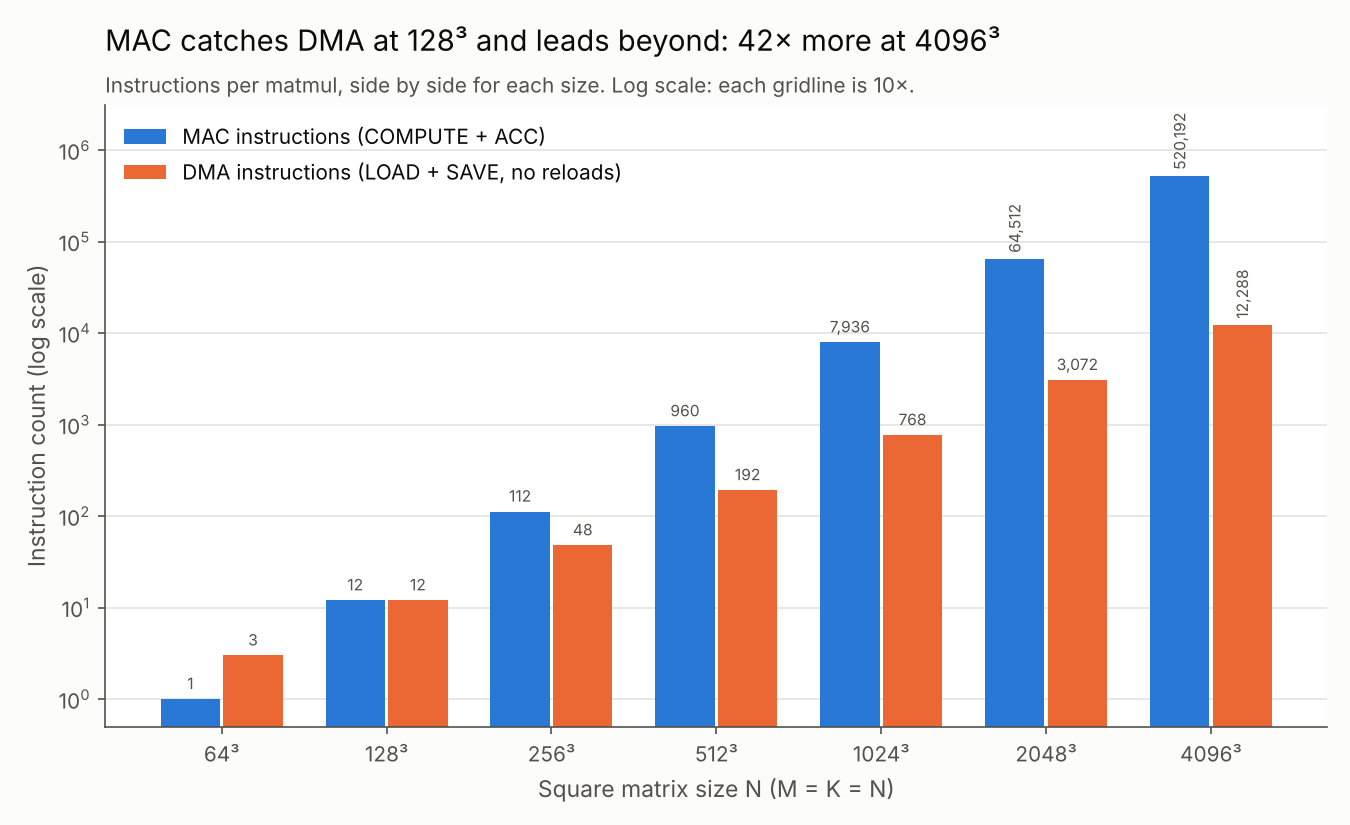
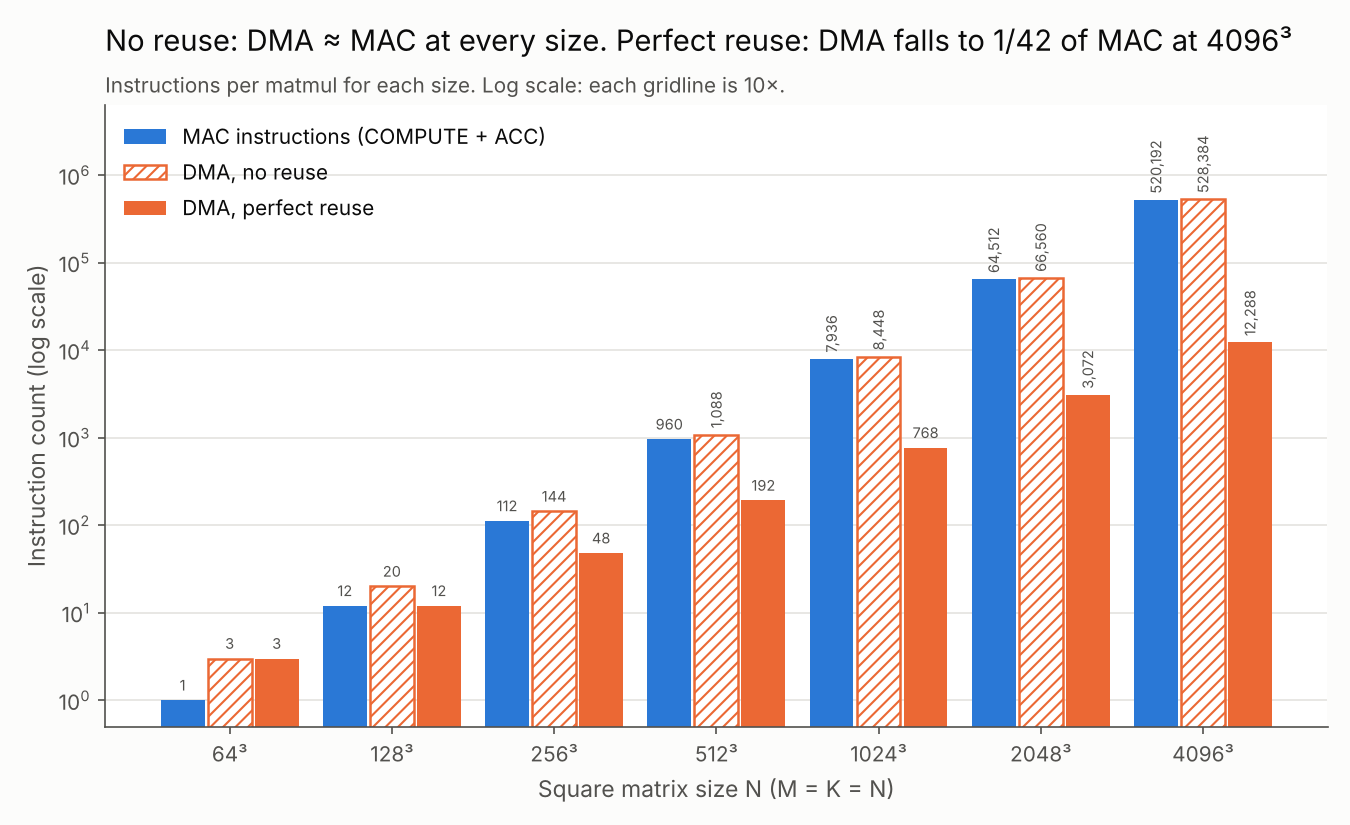
Mathematical_foundation: add no-reuse DMA scenario to the graphs
DMA counts now come in two scenarios: perfect reuse (each input tile loaded
once) and no reuse (every COMPUTE loads its own A and B, 2mnk LOADs). The
combined line and bar graphs show MAC against both.

Claude-Session: https://claude.ai/code/session_01DGvLJ7ZTRfxZ8fmwkevm71

diff --git a/Mathematical_foundation/experiments/01_instruction_counts/run.py b/Mathematical_foundation/experiments/01_instruction_counts/run.py
@@ -65,8 +65,10 @@ def plot_mac(rows, sizes, out: Path) -> None:
 def plot_dma(rows, sizes, mems, out: Path) -> None:
     fig, ax = new_figure()
     xs = [r["N"] for r in rows]
+    ax.plot(xs, [r["DMA_no_reuse"] for r in rows], color=BLUE, linewidth=2.2, linestyle=":", marker="o",
+            markersize=4, label="Total, no reuse (every COMPUTE reloads its A and B)")
     ax.plot(xs, [r["DMA_total"] for r in rows], color=BLUE, linewidth=2.6, marker="o", markersize=4,
-            label="Total, no reloads (LOAD + SAVE)")
+            label="Total, perfect reuse (LOAD + SAVE, no reloads)")
     ax.plot(xs, [r["LOAD"] for r in rows], color=ORANGE, linewidth=2.0, marker="o", markersize=4,
             label="LOAD, compulsory")
     ax.plot(xs, [r["SAVE"] for r in rows], color=AQUA, linewidth=2.0, marker="o", markersize=4, label="SAVE")
@@ -74,6 +76,7 @@ def plot_dma(rows, sizes, mems, out: Path) -> None:
         ax.plot(xs, [r[f"DMA_total_S{S}"] for r in rows], color=GREYS[i % len(GREYS)], linewidth=1.8,
                 linestyle="--", label=f"Total with {S} tiles of local memory (reloads included)")
     last = rows[-1]
+    label_end(ax, last["N"], last["DMA_no_reuse"], f"No reuse {last['DMA_no_reuse']:,}", BLUE, 8)
     label_end(ax, last["N"], last["DMA_total"], f"Total {last['DMA_total']:,}", BLUE, 6)
     label_end(ax, last["N"], last["LOAD"], f"LOAD {last['LOAD']:,}", ORANGE, -2)
     label_end(ax, last["N"], last["SAVE"], f"SAVE {last['SAVE']:,}", AQUA, -12)
@@ -84,7 +87,7 @@ def plot_dma(rows, sizes, mems, out: Path) -> None:
     ax.set_yscale("log")
     log2_size_axis(ax, sizes)
     frame(ax, "DMA instructions grow as N² when everything fits, faster when it doesn't",
-          "LOAD + SAVE per matmul. Solid: each tile moved once. Dashed: ideal tiling with limited local memory.",
+          "LOAD + SAVE per matmul. Solid: perfect reuse. Dotted: no reuse. Dashed grey: ideal tiling with S tiles of memory.",
           XLABEL, YLABEL)
     ax.legend(frameon=False, loc="upper left", fontsize=9, labelcolor=INK)
     save(fig, out)
@@ -95,23 +98,22 @@ def plot_combined_line(rows, sizes, out: Path) -> None:
     xs = [r["N"] for r in rows]
     ax.plot(xs, [r["MAC_total"] for r in rows], color=BLUE, linewidth=2.6, marker="o", markersize=5,
             label="MAC instructions (COMPUTE + ACC)")
+    ax.plot(xs, [r["DMA_no_reuse"] for r in rows], color=ORANGE, linewidth=2.2, linestyle="--", marker="o",
+            markersize=4, label="DMA, no reuse (every COMPUTE reloads its A and B)")
     ax.plot(xs, [r["DMA_total"] for r in rows], color=ORANGE, linewidth=2.6, marker="o", markersize=5,
-            label="DMA instructions (LOAD + SAVE, no reloads)")
+            label="DMA, perfect reuse (each tile loaded once)")
     last = rows[-1]
-    label_end(ax, last["N"], last["MAC_total"], f"MAC {last['MAC_total']:,}", BLUE)
-    label_end(ax, last["N"], last["DMA_total"], f"DMA {last['DMA_total']:,}", ORANGE)
-    for r in rows:  # first size where MAC count reaches DMA count
-        if r["MAC_total"] >= r["DMA_total"]:
-            text = (f"Equal at {r['N']}³ ({r['MAC_total']:,} each)" if r["MAC_total"] == r["DMA_total"]
-                    else f"MAC overtakes DMA at {r['N']}³")
-            ax.annotate(text, (r["N"], r["MAC_total"]), xytext=(30, -45), textcoords="offset points",
-                        color=INK2, fontsize=10, ha="left", arrowprops=dict(arrowstyle="-", color=INK2, lw=0.8))
-            break
+    label_end(ax, last["N"], last["DMA_no_reuse"], f"DMA no reuse {last['DMA_no_reuse']:,}", ORANGE, 9)
+    label_end(ax, last["N"], last["MAC_total"], f"MAC {last['MAC_total']:,}", BLUE, -9)
+    label_end(ax, last["N"], last["DMA_total"], f"DMA perfect reuse {last['DMA_total']:,}", ORANGE)
     ax.set_yscale("log")
     log2_size_axis(ax, sizes)
-    frame(ax, f"MAC work outgrows DMA work: {last['MAC_total'] / last['DMA_total']:.0f}× more at {last['N']}³",
-          "Instructions per matmul. MAC grows as N³, DMA as N², so the ratio doubles with every doubling of N.",
+    ax.set_xlim(sizes[0] / 1.3, sizes[-1] * 4.2)
+    frame(ax, f"Reuse is the whole game: without it DMA matches MAC count; with it DMA is {last['MAC_total'] / last['DMA_total']:.0f}\u00d7 lower",
+          "Instructions per matmul. Shaded band: what local memory can buy, from no reuse (dashed) to perfect reuse (solid).",
           XLABEL, YLABEL)
+    ax.fill_between(xs, [r["DMA_total"] for r in rows], [r["DMA_no_reuse"] for r in rows], color=ORANGE, alpha=0.08,
+                    linewidth=0)
     ax.legend(frameon=False, loc="upper left", fontsize=10, labelcolor=INK)
     save(fig, out)
 
@@ -119,25 +121,23 @@ def plot_combined_line(rows, sizes, out: Path) -> None:
 def plot_combined_bar(rows, sizes, out: Path) -> None:
     fig, ax = new_figure()
     idx = list(range(len(rows)))
-    w = 0.36
-    mac = [r["MAC_total"] for r in rows]
-    dma = [r["DMA_total"] for r in rows]
-    b1 = ax.bar([i - w / 2 - 0.01 for i in idx], mac, width=w, color=BLUE, label="MAC instructions (COMPUTE + ACC)")
-    b2 = ax.bar([i + w / 2 + 0.01 for i in idx], dma, width=w, color=ORANGE,
-                label="DMA instructions (LOAD + SAVE, no reloads)")
-    ax.set_yscale("log")
-    ax.set_ylim(0.5, max(mac) * 6)
-    for bars, vals in ((b1, mac), (b2, dma)):
+    w = 0.27
+    series = (("MAC_total", "MAC instructions (COMPUTE + ACC)", dict(color=BLUE)),
+              ("DMA_no_reuse", "DMA, no reuse", dict(color="white", edgecolor=ORANGE, hatch="////", linewidth=1.2)),
+              ("DMA_total", "DMA, perfect reuse", dict(color=ORANGE)))
+    for j, (key, name, kw) in enumerate(series):
+        vals = [r[key] for r in rows]
+        bars = ax.bar([i + (j - 1) * (w + 0.02) for i in idx], vals, width=w, label=name, **kw)
         for rect, v in zip(bars, vals):
             ax.annotate(f"{v:,}", (rect.get_x() + rect.get_width() / 2, v), xytext=(0, 3), textcoords="offset points",
-                        ha="center", va="bottom", fontsize=7.5, color=INK2, rotation=90 if v >= 10000 else 0)
+                        ha="center", va="bottom", fontsize=7, color=INK2, rotation=90 if v >= 1000 else 0)
+    ax.set_yscale("log")
+    ax.set_ylim(0.5, max(r["DMA_no_reuse"] for r in rows) * 12)
     ax.set_xticks(idx)
-    ax.set_xticklabels([f"{r['N']}³" for r in rows])
+    ax.set_xticklabels([f"{r['N']}\u00b3" for r in rows])
     last = rows[-1]
-    tie = next((r["N"] for r in rows if r["MAC_total"] >= r["DMA_total"]), None)
-    frame(ax, (f"MAC catches DMA at {tie}³ and leads beyond: " if tie else "")
-          + f"{last['MAC_total'] / last['DMA_total']:.0f}× more at {last['N']}³",
-          "Instructions per matmul, side by side for each size. Log scale: each gridline is 10×.",
+    frame(ax, f"No reuse: DMA \u2248 MAC at every size. Perfect reuse: DMA falls to 1/{last['MAC_total'] / last['DMA_total']:.0f} of MAC at {last['N']}\u00b3",
+          "Instructions per matmul for each size. Log scale: each gridline is 10\u00d7.",
           XLABEL, YLABEL)
     ax.legend(frameon=False, loc="upper left", fontsize=10, labelcolor=INK)
     save(fig, out)
@@ -161,7 +161,7 @@ def main() -> None:
     plot_dma(rows, sizes, mems, a.out / "dma_instructions.png")
     plot_combined_line(rows, sizes, a.out / "mac_vs_dma_line.png")
     plot_combined_bar(rows, sizes, a.out / "mac_vs_dma_bar.png")
-    hdr = ["N", "COMPUTE", "ACC", "MAC_total", "LOAD", "SAVE", "DMA_total"] + [f"DMA_total_S{S}" for S in mems]
+    hdr = ["N", "COMPUTE", "ACC", "MAC_total", "LOAD", "SAVE", "DMA_total", "DMA_no_reuse"] + [f"DMA_total_S{S}" for S in mems]
     print("  ".join(f"{h:>14}" for h in hdr))
     for r in rows:
         print("  ".join(f"{r[h]:>14,}" for h in hdr))

diff --git a/Mathematical_foundation/foundation/counts.py b/Mathematical_foundation/foundation/counts.py
@@ -5,6 +5,7 @@ With m, k, n = ceil(M/64), ceil(K/64), ceil(N/64) tiles:
     matrix units (MAC)                 DMA units
       COMPUTE = m*n*k                    LOAD (compulsory) = k*(m + n)
       ACC     = m*n*(k - 1)              SAVE              = m*n
+                                         LOAD (no reuse)   = 2*m*n*k   (each COMPUTE loads its own A, B)
 
 With only S tiles of local memory some input tiles must be loaded more than once.
 loads_with_memory() returns the fewest LOADs any block or panel tiling needs
@@ -51,10 +52,21 @@ class OpCounts:
 
     @property
     def dma_total(self) -> int:
+        """Perfect reuse: every input tile loaded exactly once."""
         return self.LOAD + self.SAVE
 
+    @property
+    def load_no_reuse(self) -> int:
+        """No reuse: every COMPUTE loads its own A and B tile, 2*m*n*k LOADs."""
+        return 2 * self.m * self.n * self.k
+
+    @property
+    def dma_no_reuse(self) -> int:
+        return self.load_no_reuse + self.SAVE
+
     def as_dict(self) -> dict:
-        return {**asdict(self), "MAC_total": self.mac_total, "DMA_total": self.dma_total}
+        return {**asdict(self), "MAC_total": self.mac_total, "DMA_total": self.dma_total,
+                "LOAD_no_reuse": self.load_no_reuse, "DMA_no_reuse": self.dma_no_reuse}
 
 
 def op_counts(M: int, K: int, N: int) -> OpCounts:

diff --git a/Mathematical_foundation/experiments/01_instruction_counts/README.md b/Mathematical_foundation/experiments/01_instruction_counts/README.md
@@ -12,8 +12,8 @@ total when local memory holds only 64 or 256 tiles. Run `python run.py`
 |---|---|
 | `outputs/mac_instructions.png` | COMPUTE, ACC and their total |
 | `outputs/dma_instructions.png` | LOAD, SAVE, their total, and the total with limited memory |
-| `outputs/mac_vs_dma_line.png` | MAC total vs DMA total, line chart |
-| `outputs/mac_vs_dma_bar.png` | MAC total vs DMA total, grouped bars |
+| `outputs/mac_vs_dma_line.png` | MAC total vs DMA with no reuse and with perfect reuse, line chart |
+| `outputs/mac_vs_dma_bar.png` | the same three totals as grouped bars |
 | `outputs/op_counts.csv` | every number behind the graphs |
 
 **Findings.**
@@ -23,6 +23,10 @@ total when local memory holds only 64 or 256 tiles. Run `python run.py`
 - DMA instructions grow as N² (4× per doubling) when every tile is moved once,
   reaching 12,288 at 4096³. With limited memory, reloads make them grow faster:
   4096³ needs 81,920 at S = 64 tiles, 6.7× the compulsory count.
-- The counts are equal at 128³ (12 each). Beyond that MAC leads, by 42× at 4096³.
+- With **no reuse** (every COMPUTE loads its own A and B: 2mnk LOADs) DMA
+  instructions roughly equal MAC instructions at every size (528,384 vs 520,192
+  at 4096³). Since a DMA op takes 4× as long, a machine without reuse is
+  DMA-bound at every size.
+- With **perfect reuse** the counts are equal at 128³ (12 each). Beyond that MAC leads, by 42× at 4096³.
   A DMA instruction takes 4× as long as a MAC instruction (512 vs 128 cycles),
   so in time the crossover comes later, around 512³.
